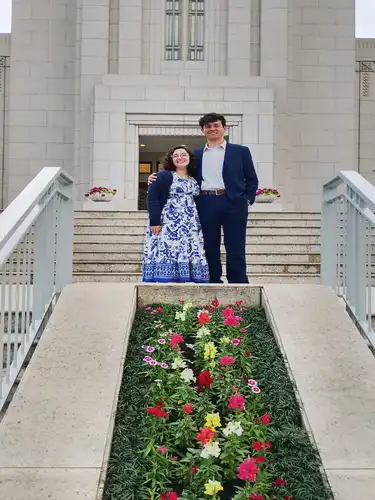
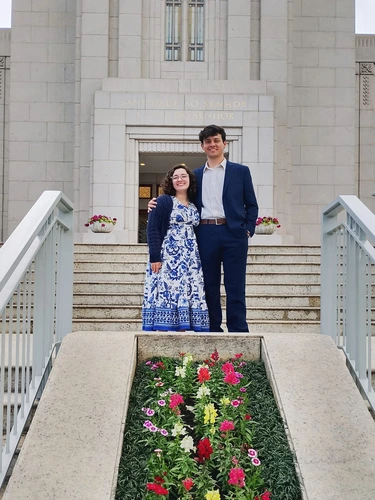
Refactor code structure for improved readability and maintainability

diff --git a/project/weddingGift/src/styles/index-large.css b/project/weddingGift/src/styles/index-large.css
@@ -4,19 +4,28 @@
     margin: 0 auto;
     display: grid;
     grid-template-columns: 1fr 1fr 1fr 1fr;
-    grid-template-rows: 1fr 1fr;
     margin-bottom: 0;
   }
 
   #coupleInfo picture {
     grid-column: 1 / span 4;
-    grid-row: 1 / span 2;
-    height: 100%;
+    grid-row: 1;
+    height: auto;
+  }
+
+  #coupleInfo picture img {
+    display: block;
+    height: auto;
   }
 
   #infos {
-    grid-column: 3 / span 3;
-    grid-row: 1 / span 1;
+    grid-column: 3 / span 2;
+    grid-row: 1;
+    align-self: start;
+    justify-self: end;
+    width: fit-content;
+    max-width: 360px;
+    box-sizing: border-box;
     margin: 20px;
     opacity: 0.9;
     background-color: var(--primary-color);
@@ -34,7 +43,8 @@
 
   #coupleInfo {
     grid-column: 1 / span 4;
-    grid-row: 1 / span 2;
+    grid-row: 1;
+    align-self: start;
   }
 
   #coupleInfo img {
@@ -43,14 +53,14 @@
   }
 
   #cotasInfo {
-    margin-top: 10vw;
+    margin-top: 0;
     grid-column: 2 / span 2;
-    grid-row: 3;
+    grid-row: 2;
   }
 
   .products {
     grid-column: 1 / span 4;
-    grid-row: 4;
+    grid-row: 3;
   }
 
   .products {
